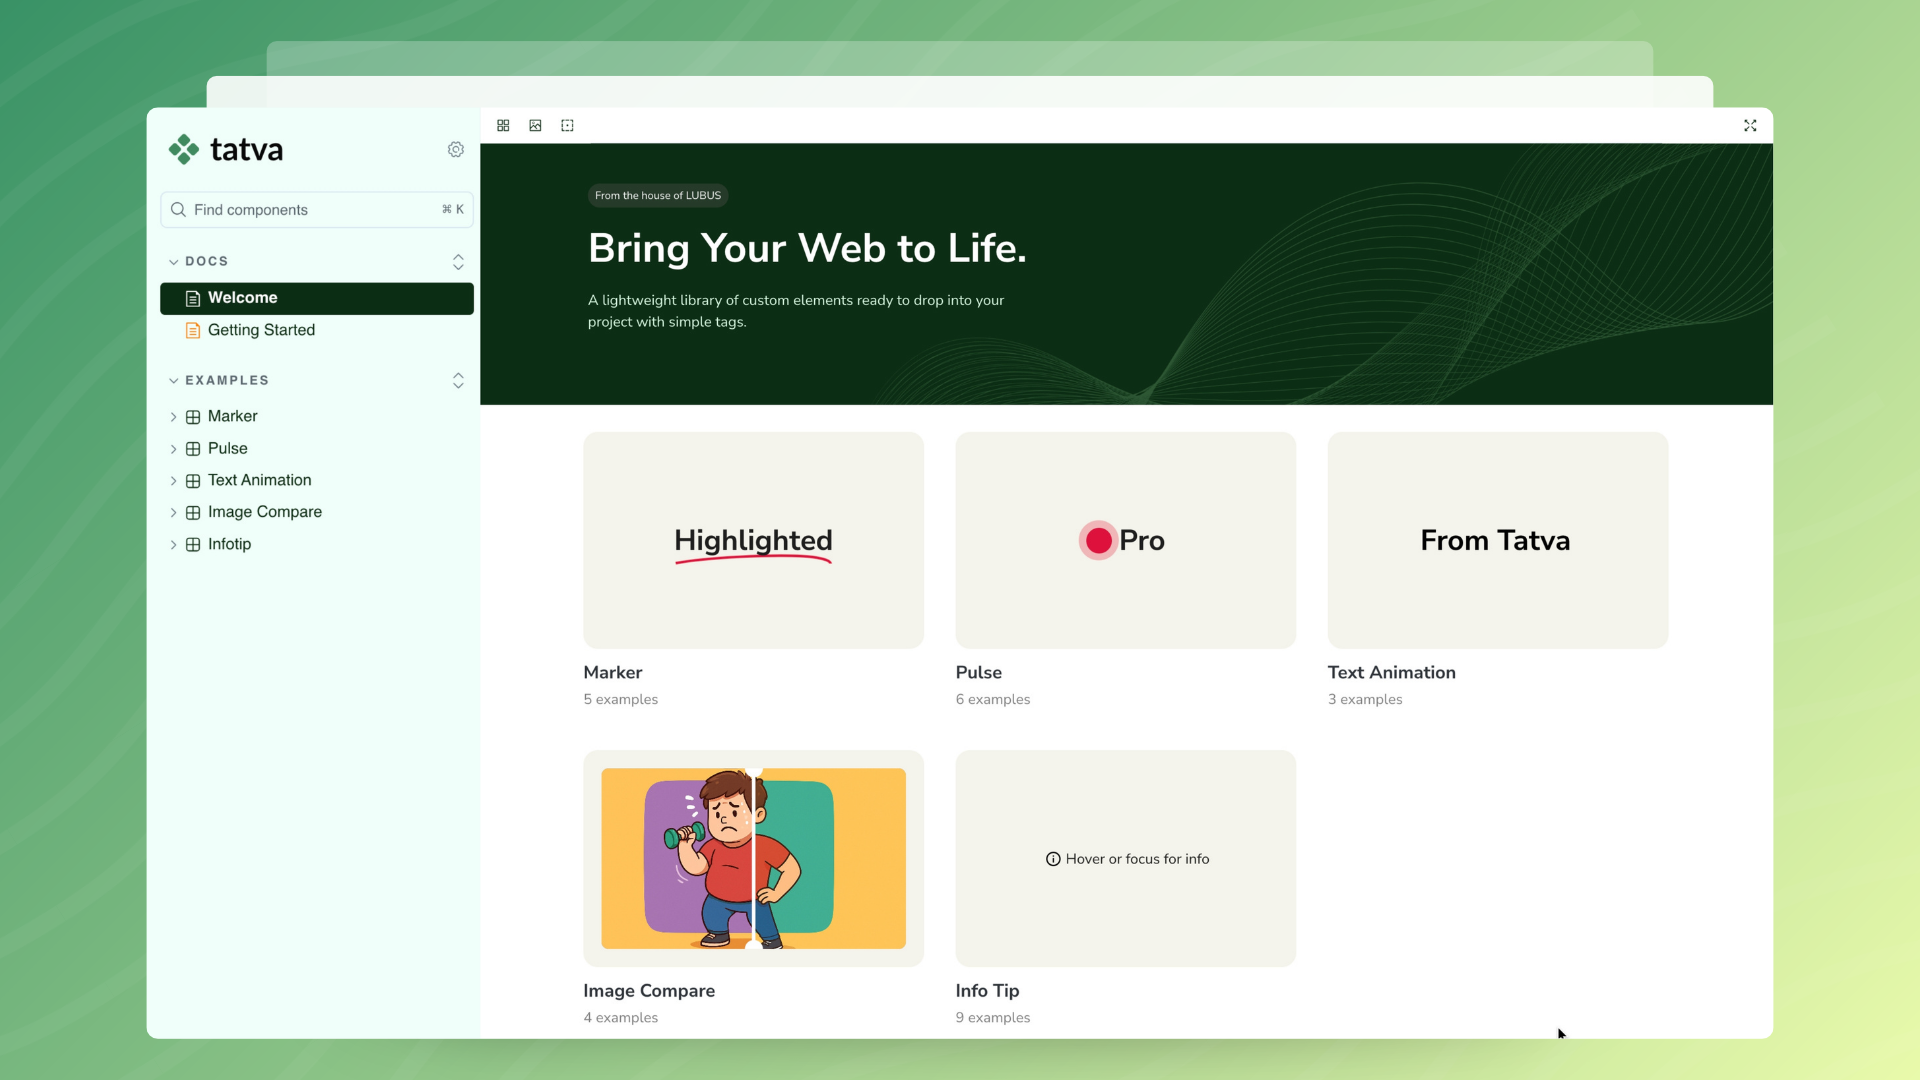
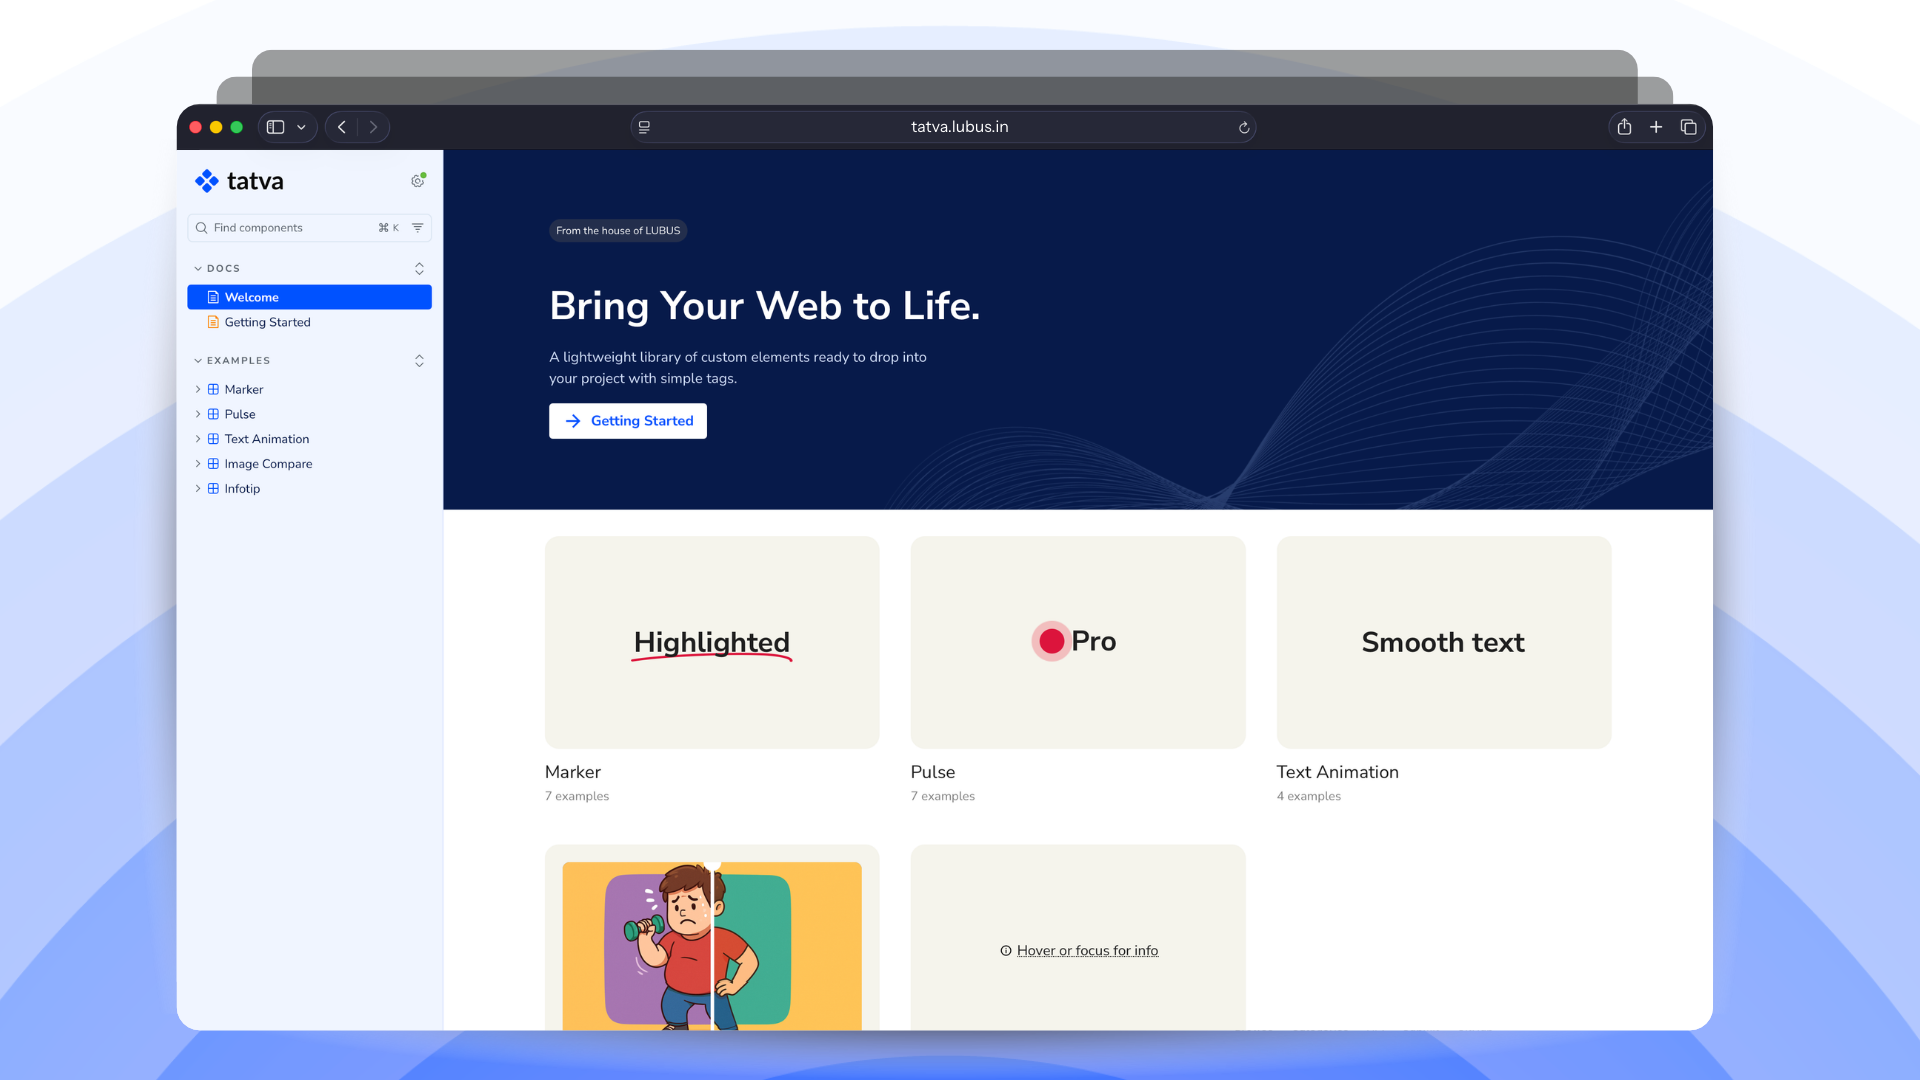
refactor: update brand colors and assets to blue theme

diff --git a/.storybook/manager.js b/.storybook/manager.js
@@ -14,35 +14,35 @@ const theme = create({
   fontCode: 'monospace',
   brandTitle: 'Tatva Components', // Brand title shown in the UI
   brandUrl: 'https://github.com/lubusIN/tatva', // Brand URL for links
-  brandImage: '/tatva-logo.svg', // Brand logo image
+  brandImage: '/logo.svg', // Brand logo image
   brandTarget: '_self', // Open brand links in same tab
 
   //
-  colorPrimary: '#3E8B5F',
-  colorSecondary: '#0E2D14',
+  colorPrimary: '#0052FF',
+  colorSecondary: '#0052FF',
 
   // UI
-  appBg: '#F1FFFA',
+  appBg: '#F0F5FF',
   appContentBg: '#FFFFFF',
   appPreviewBg: '#FFFFFF',
-  appHoverBg: '#b7efc5',
-  appBorderColor: 'rgba(14, 45, 20, 0.12)',
+  appHoverBg: '#E0ECFF',
+  appBorderColor: 'rgba(0, 82, 255, 0.12)',
   appBorderRadius: 4,
 
   // Text colors
-  textColor: '#0E2D14',
+  textColor: '#071A4A',
   textInverseColor: '#FFFFFF',
 
   // Toolbar default and active colors
-  barTextColor: '#0E2D14',
-  barSelectedColor: '#3E8B5F',
-  barHoverColor: '#3E8B5F',
-  barBg: '#F1FFFA',
+  barTextColor: '#071A4A',
+  barSelectedColor: '#0052FF',
+  barHoverColor: '#0052FF',
+  barBg: '#F0F5FF',
 
   // Form colors
   inputBg: '#FFFFFF',
-  inputBorder: 'rgba(14, 45, 20, 0.2)',
-  inputTextColor: '#0E2D14',
+  inputBorder: 'rgba(0, 82, 255, 0.2)',
+  inputTextColor: '#071A4A',
   inputBorderRadius: 4,
 });
 

diff --git a/src/docs/components/banner/style.scss b/src/docs/components/banner/style.scss
@@ -15,8 +15,8 @@
 }
 
 .tatva-hero-Section {
-    background-color: #0E2D14;
-    background-image: url(/tatva-header-cover.png);
+    background-color: #071A4A;
+    background-image: url(/banner-bg.png);
     background-size: cover;
     background-repeat: no-repeat;
     background-position: left 25% bottom 45%;
@@ -38,8 +38,8 @@
   align-self: flex-start !important;
   width: fit-content !important;
   max-width: fit-content !important;
-  background-color: #FEEA00 !important;
-  color: #0E2D14 !important;
+  background-color: #ffffff !important;
+  color: #0052ff !important;
   border-radius: 4px !important;
   font-weight: 600 !important;
   padding: 8px 15px !important;
@@ -47,17 +47,21 @@
   text-decoration: none !important;
   border: none !important;
   cursor: pointer;
+  transition: all 0.2s ease-in-out !important;
 
   svg {
-    fill: #0E2D14 !important;
+    fill: #0052ff !important;
+    transition: transform 0.2s ease, fill 0.2s ease;
   }
 
   &:hover {
-    color: white !important;
-    background: #80808033 !important;
+    color: #0052ff !important;
+    background-color: #f0f5ff !important;
+    box-shadow: 0 4px 12px rgba(0, 0, 0, 0.15) !important;
 
     svg {
-      fill: white !important;
+      fill: #0052ff !important;
+      transform: translateX(3px);
     }
   }
 

diff --git a/src/docs/components/footer/style.scss b/src/docs/components/footer/style.scss
@@ -1,5 +1,5 @@
 .tatva-footer {
-    background-color: #0E2D14 !important;
+    background-color: #071A4A !important;
     padding: 20px 10px 0;
 
     .components-heading,
@@ -36,17 +36,29 @@
 
 .footer_btn {
     display: flex;
-    background-color: #FEEA00;
-    color: #0E2D14 !important;
+    background-color: #ffffff;
+    color: #0052ff !important;
     border-radius: 4px;
     font-weight: 600 !important;
     padding: 8px 15px !important;
     gap: 8px;
+    text-decoration: none !important;
+    transition: all 0.2s ease-in-out !important;
+
+    svg {
+        fill: #0052ff !important;
+        transition: fill 0.2s ease;
+    }
 }
 
 .footer_btn:hover {
-    color: white !important;
-    background: #80808033;
+    color: #0052ff !important;
+    background-color: #f0f5ff !important;
+    box-shadow: 0 4px 12px rgba(0, 0, 0, 0.15) !important;
+
+    svg {
+        fill: #0052ff !important;
+    }
 }
 
 .copyright {

diff --git a/src/docs/components/footer/index.jsx b/src/docs/components/footer/index.jsx
@@ -30,7 +30,7 @@ function Footer() {
                     <Heading level={2} align='center' color='#ffffff' weight={600} style={{ margin: 0, fontSize: '45px', borderBottom: 'none', padding: 0, color: '#ffffff' }}>
                         Open-source DNA,
                         <br />
-                        <Text weight={600} color='#DCFCE6' style={{ margin: 0, fontSize: '45px', borderBottom: 'none'}}>
+                        <Text weight={600} color='#D6E4FF' style={{ margin: 0, fontSize: '45px', borderBottom: 'none'}}>
                             Product-driven thinking
                         </Text>
                     </Heading>

diff --git a/src/docs/components/banner/index.jsx b/src/docs/components/banner/index.jsx
@@ -33,7 +33,7 @@ function Banner() {
                     <Heading className='head_title' size={40} align="left" color="white" lineHeight={1.3} weight={600} >
                         Bring Your Web to Life.
                     </Heading>
-                    <Text size={16} align="left" color="#DCFCE6" lineHeight={1.5} style={{ maxWidth: '500px' }}>
+                    <Text size={16} align="left" color="#D6E4FF" lineHeight={1.5} style={{ maxWidth: '500px' }}>
                         A lightweight library of custom elements ready to drop into your project with simple tags.
                     </Text>
                     <Button

diff --git a/.storybook/preview.css b/.storybook/preview.css
@@ -15,13 +15,13 @@
 .sbdocs-content h2,
 #storybook-docs h2 {
   font-family: var(--sb-font-sans);
-  color: #0E2D14;
+  color: #071A4A;
   font-size: 24px;
   font-weight: 700;
   line-height: 1.3;
   margin: 28px 0 12px;
   padding-bottom: 6px;
-  border-bottom: 1px solid rgba(14, 45, 20, 0.12);
+  border-bottom: 1px solid rgba(0, 82, 255, 0.12);
 }
 
 /* Ensure custom landing page headings are not polluted by docs default h2 styles */

diff --git a/.storybook/manager.css b/.storybook/manager.css
@@ -8,7 +8,7 @@
 
 .sidebar-item:hover:not([data-selected="true"]),
 .sidebar-subheading button:hover {
-  background-color: #b7efc5 !important;
+  background-color: #E0ECFF !important;
 }
 
 .sidebar-item {
